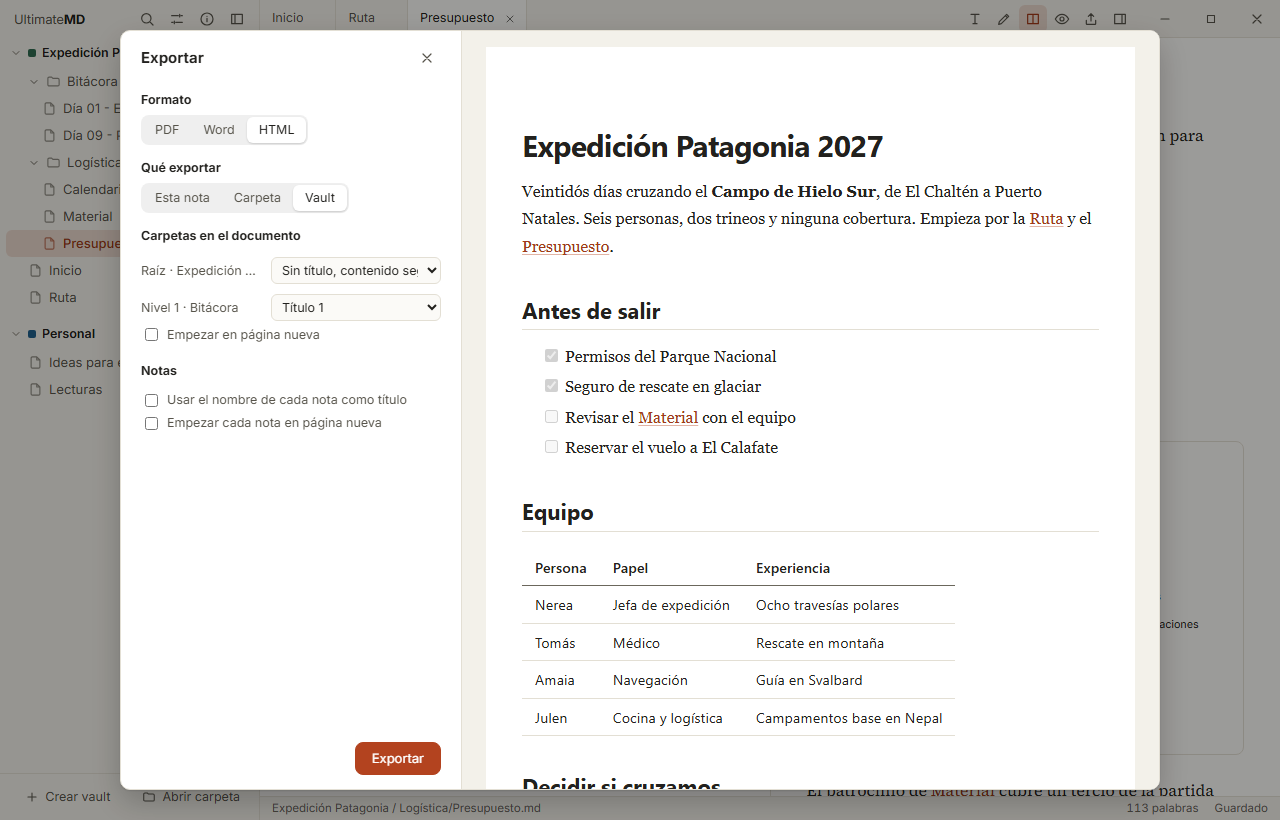
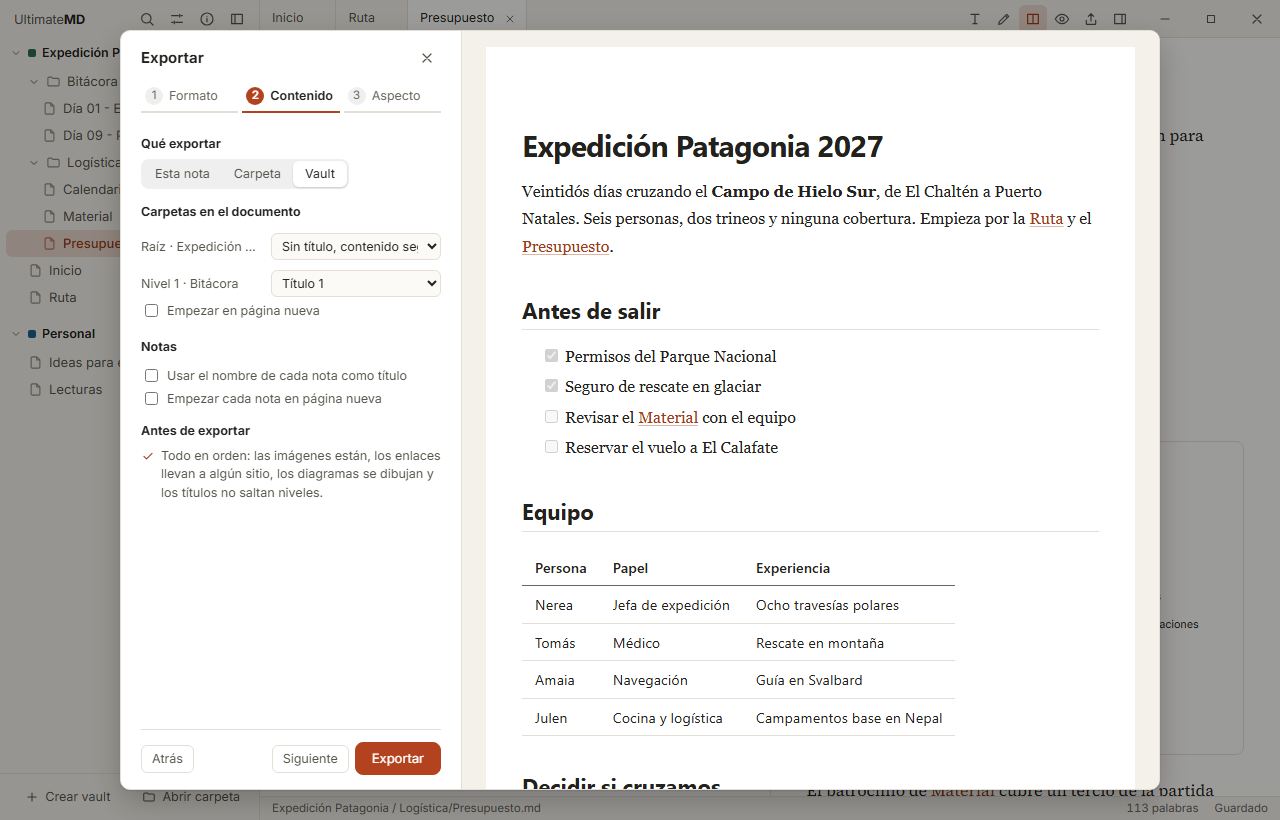
Release v0.6.0
The version moves to 0.6.0 and carries milestones v0.4, v0.5 and v0.6. The
README and the website describe what they added, and the website shows the
export dialog in steps.

Changed region(s): [[0.0938, 0.0915, 0.3438, 0.6098], [0.2188, 0.9146, 0.2812, 0.9451], [0.125, 0.9146, 0.1562, 0.9451]]

diff --git a/site/index.html b/site/index.html
@@ -40,6 +40,8 @@
         <p>El modo visual muestra el formato mientras escribes, y la barra te da títulos, listas, tablas y enlaces sin saber Markdown. Por debajo, tu archivo sigue siendo Markdown normal.</p>
         <ul>
           <li>Tablas de verdad, que se editan celda a celda.</li>
+          <li>Pega desde webs, Word o Google Docs y se convierte en Markdown; las imágenes pegadas se guardan en el vault.</li>
+          <li>Callouts, plantillas de nota y enlaces a un título concreto.</li>
           <li>Enlaza notas escribiendo <code>[[</code>, con sugerencias, y ábrelas con un clic.</li>
           <li>Si lo prefieres, edita el Markdown con vista dividida.</li>
         </ul>
@@ -54,7 +56,7 @@
         <ul>
           <li>Varios vaults abiertos a la vez, con pestañas de cualquiera de ellos.</li>
           <li>Búsqueda global sin distinguir acentos, que abre la nota en la línea encontrada, y selector rápido.</li>
-          <li>Renombra o mueve notas sin romper enlaces: se actualizan solos.</li>
+          <li>Renombra o mueve notas sin romper enlaces: se actualizan solos. Los rotos se reúnen en una lista para corregirlos.</li>
           <li>Abre también archivos <code>.md</code> sueltos, sin vault.</li>
         </ul>
       </div>
@@ -68,10 +70,11 @@
         <ul>
           <li><strong>Word con tus plantillas:</strong> se conservan portada, cabeceras, fuentes, estilos e índice.</li>
           <li><strong>Carpetas a tu medida:</strong> cada nivel puede ser un título, un estilo de la plantilla o desaparecer.</li>
-          <li><strong>Vista previa</strong> página a página antes de guardar.</li>
+          <li><strong>En tres pasos,</strong> con vista previa página a página y una revisión que avisa de imágenes que faltan, enlaces rotos, diagramas con error y títulos que saltan niveles.</li>
+          <li><strong>PDF/A</strong> para archivar, con autor y título en las propiedades.</li>
         </ul>
       </div>
-      <img class="shot" loading="lazy" src="img/export.png" width="1280" height="820" alt="Diálogo de exportación con las opciones a la izquierda y la vista previa del documento a la derecha.">
+      <img class="shot" loading="lazy" src="img/export.png" width="1280" height="820" alt="Diálogo de exportación en pasos, con las opciones y la revisión a la izquierda y la vista previa del documento a la derecha.">
     </section>
 
     <section class="feature flip">
@@ -80,7 +83,8 @@
         <p>Crea flujos, secuencias, estados, mapas mentales, tartas y Gantt con un formulario, viendo el resultado al momento. Para todo lo demás hay plantillas editables de Mermaid y D2.</p>
         <ul>
           <li><strong>A tu estilo:</strong> elige tema, colores o aspecto de boceto para un diagrama, una nota o todo el vault.</li>
-          <li><strong>Sin conexión:</strong> se dibujan en tu equipo, y se exportan a SVG y PNG.</li>
+          <li><strong>Sin conexión:</strong> se dibujan en tu equipo, y se exportan a SVG y PNG. Las conexiones pueden animarse.</li>
+          <li><strong>Errores claros:</strong> si uno falla, te dice en qué línea y por qué.</li>
           <li><strong>También a mano:</strong> escribe un bloque <code>mermaid</code> o <code>d2</code> si lo prefieres.</li>
         </ul>
       </div>

diff --git a/e2e/screenshots.spec.ts b/e2e/screenshots.spec.ts
@@ -105,7 +105,9 @@ test('export dialog', async ({ page }) => {
   await page.keyboard.press('Control+e');
   // The PDF and Word previews come from the backend; HTML is drawn here, in the browser.
   await page.getByRole('group', { name: 'Formato' }).getByRole('button', { name: 'HTML' }).click();
+  await page.getByRole('navigation', { name: 'Pasos' }).getByRole('button', { name: 'Contenido' }).click();
   await page.getByRole('group', { name: 'Alcance' }).getByRole('button', { name: 'Vault' }).click();
+  await expect(page.getByRole('region', { name: 'Antes de exportar' })).not.toHaveAttribute('aria-busy', 'true', { timeout: 30_000 });
   const preview = page.getByRole('dialog', { name: 'Exportar' });
   await expect(preview.locator('.html svg').first()).toBeVisible({ timeout: 30_000 });
   await settle(page);

diff --git a/README.md b/README.md
@@ -21,13 +21,14 @@ UltimateMD es un editor libre para Windows, macOS y Linux. Tus notas siguen sien
 
 - **Trabajar con varios vaults a la vez**, en una sola ventana, con pestañas de cualquiera de ellos.
 - **Editar en modo visual**, con formato mientras escribes y barra de herramientas, o en Markdown con vista dividida. El archivo siempre sigue siendo Markdown normal.
-- **Enlazar notas** escribiendo `[[` o con un botón, con sugerencias y un clic para abrirlas. Al renombrar o mover una nota, sus enlaces se actualizan solos.
+- **Escribir más rápido**: pega desde webs, Word o Google Docs y se convierte en Markdown; pega o arrastra imágenes y se guardan en el vault; crea notas desde plantillas; usa callouts como `> [!warning]`.
+- **Enlazar notas** escribiendo `[[` o con un botón, con sugerencias y un clic para abrirlas, también a un título (`[[nota#Título]]`). Al renombrar o mover una nota, sus enlaces se actualizan solos, y una pantalla reúne los enlaces rotos del vault para corregirlos.
 - **Moverte rápido** con autoguardado, selector rápido y búsqueda global que no distingue acentos y abre la nota en la línea encontrada.
-- **Dibujar diagramas** Mermaid y D2 dentro de la nota, sin conexión: con un creador visual para los más habituales y plantillas para todos los demás.
-- **Exportar** una nota, una carpeta o un vault a PDF, Word o HTML, con vista previa.
+- **Dibujar diagramas** Mermaid y D2 dentro de la nota, sin conexión: con un creador visual para los más habituales, plantillas para todos los demás y conexiones animadas. Si uno falla, te dice en qué línea y por qué.
+- **Exportar** una nota, una carpeta o un vault a PDF, Word o HTML en tres pasos, con vista previa y una revisión que avisa de lo que saldría mal.
 - **Usar tus plantillas de Word**, conservando portada, cabeceras, estilos e índice.
 - **Conectar tu IA** por MCP, con permisos por vault.
-- **Personalizarla** con ocho temas y temas propios por vault, nota o diagrama.
+- **Personalizarla** con ocho temas y temas propios por vault, nota o diagrama, y ajustar el tamaño del texto y el ancho de línea.
 - **Abrir `.md` sueltos** y usarla como programa por defecto.
 - **Usarla en castellano, euskera o inglés**, con un tutorial la primera vez y aviso de nuevas versiones.
 
@@ -68,11 +69,15 @@ Herramientas: `list_vaults`, `list_notes`, `read_note`, `search_notes`, `get_bac
 
 ![Diálogo de exportación con vista previa](site/img/export.png)
 
-Pulsa `Ctrl+E`. Lo exportado usa un aspecto de documento, sea cual sea el tema activo. Los diagramas conservan el estilo que les hayas dado, salvo los temas oscuros, pensados para pantalla y no para papel.
+Pulsa `Ctrl+E` y sigue los pasos **Formato**, **Contenido** y **Aspecto**. El diálogo recuerda tus últimas opciones en cada vault, así que puedes pulsar **Exportar** desde cualquier paso. Al terminar, puedes abrir el documento o mostrarlo en su carpeta.
+
+Lo exportado usa un aspecto de documento, sea cual sea el tema activo. Los diagramas conservan el estilo que les hayas dado, salvo los temas oscuros, pensados para pantalla y no para papel.
+
+- **Antes de exportar:** se revisan las notas y se avisa de imágenes que faltan, enlaces que no llevan a ninguna parte, diagramas que no se pueden dibujar y títulos que saltan niveles. Cada aviso lleva a su línea; también puedes exportar así.
 
 - **Alcance:** la nota, una carpeta o el vault. Las notas salen en orden natural: primero las de cada carpeta y luego sus subcarpetas. Usa prefijos como `01-` para fijar el orden.
 - **Carpetas:** cada nivel puede ser un título, un estilo de tu plantilla o no aparecer, con salto de página opcional. Los títulos de las notas bajan de nivel para encajar.
-- **PDF:** se compone directamente con un motor tipográfico integrado, sin diálogo de impresión, con portada e índice opcionales.
+- **PDF:** se compone directamente con un motor tipográfico integrado, sin diálogo de impresión, con portada e índice opcionales. Lleva el título y el `autor` del frontmatter en sus propiedades, y puede generarse como PDF/A para archivar.
 - **Word:** la nota se escribe dentro de una copia de tu plantilla. Incluye una plantilla de ejemplo que puedes guardar y adaptar.
 - **Word por vault:** cada vault puede llevar su propia plantilla y ajustar títulos, texto, tablas, imágenes y código, con una muestra en directo. Se abre desde el icono de Word junto al nombre del vault. Los estilos de títulos numerados de la plantilla se detectan solos.
 
